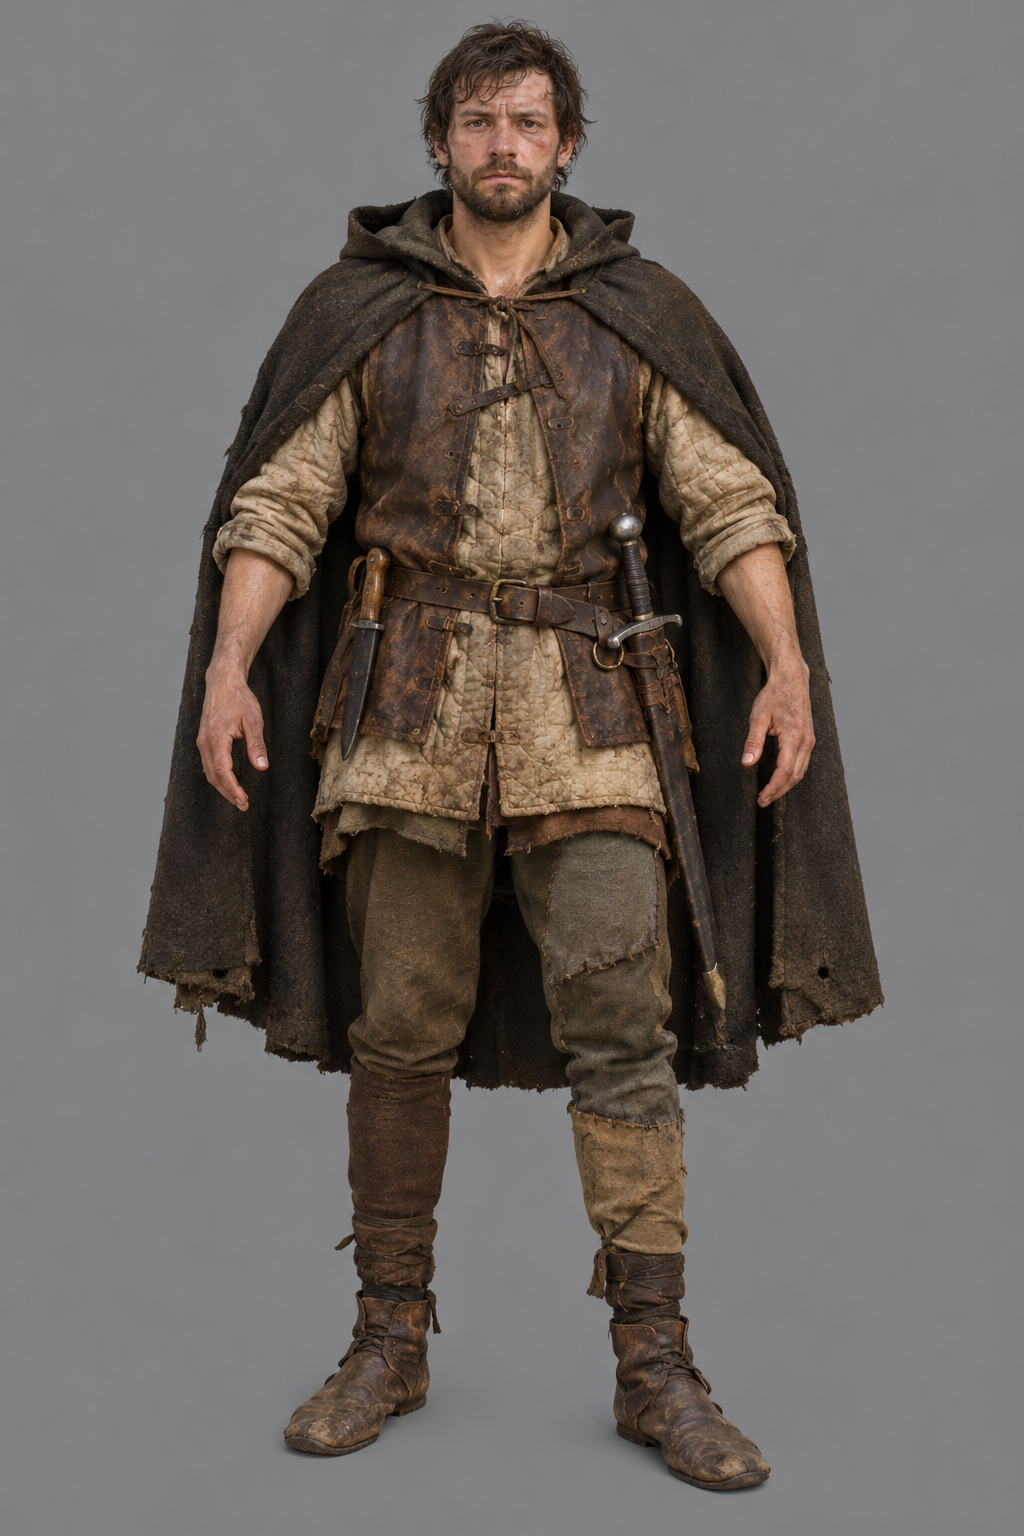
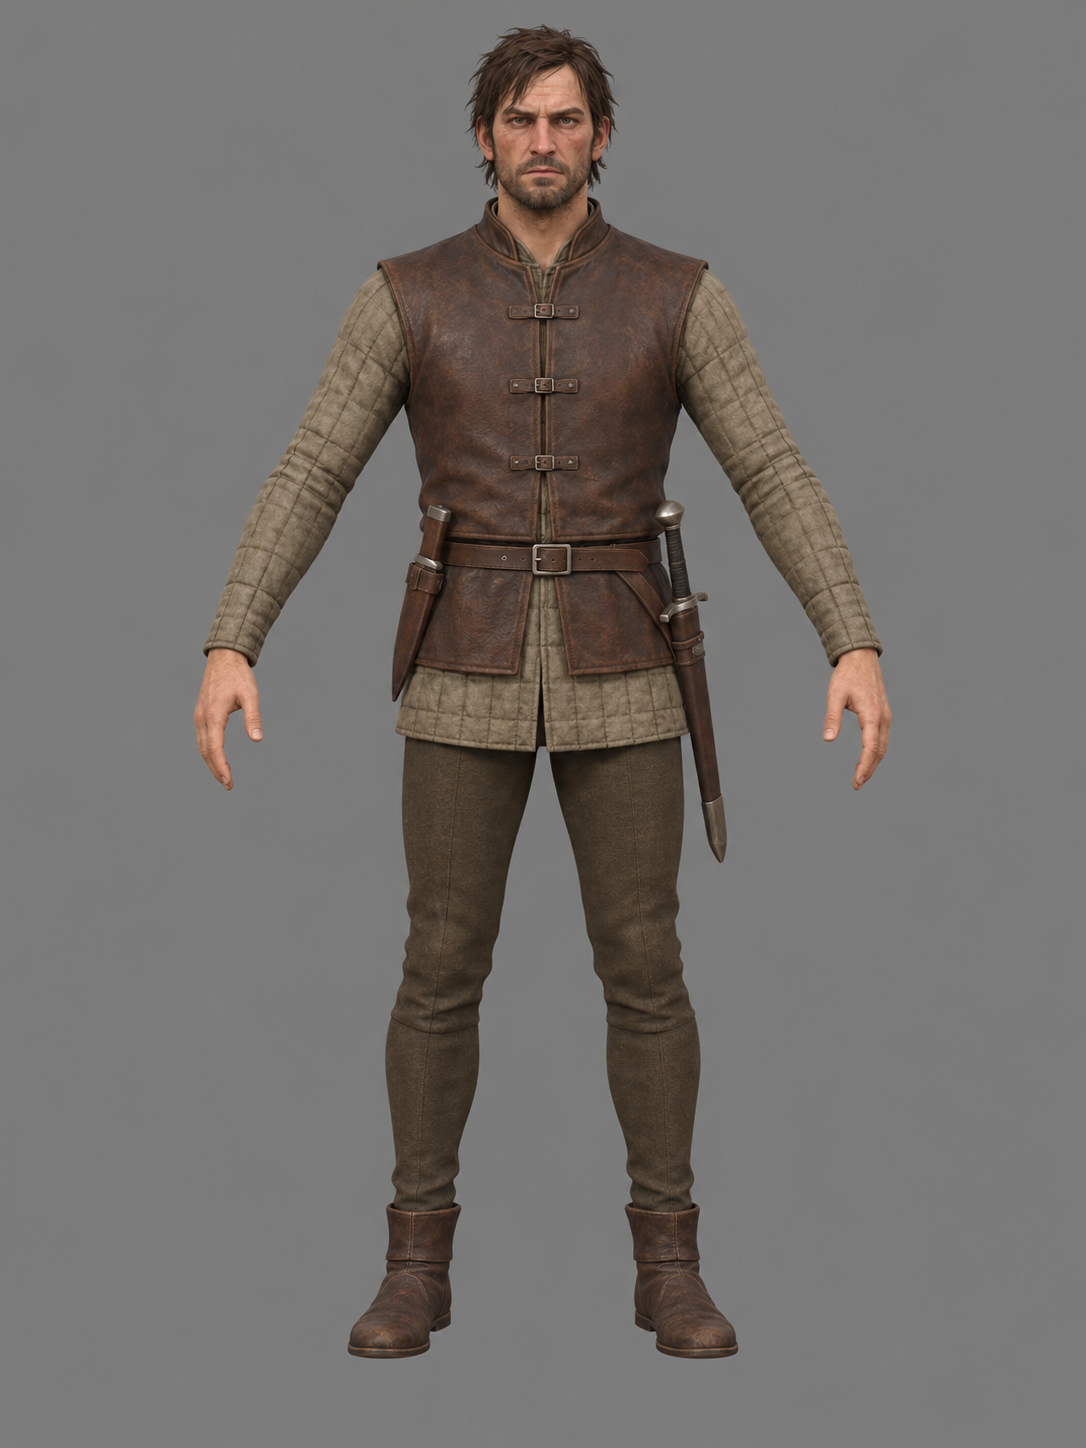
Batch 002: the bandit from the clean concept render (awaiting approval)
The owner's second image (fitted clothing, straight legs, A-pose, grey
background) replaces the photograph in the inbox. Batch 002 plans the
three Meshy steps with the combat set. Weapons in hand are recorded as
separate props attached to the hand joint (DESIGN 10.1 step 7).

Fix: `batch new` without `--pose` dropped the first character spec.

Claude-Session: https://claude.ai/code/session_01W5BePXiaXkqzr4br9g7qBv

Changed region(s): [[0.125, 0.0, 0.875, 0.9945]]

diff --git a/tools/asset.ts b/tools/asset.ts
@@ -180,7 +180,7 @@ async function batch(args: string[]): Promise<void> {
     const poseAt = given.indexOf('--pose');
     const pose = poseAt >= 0 ? given[poseAt + 1] : 'a-pose';
     if (pose !== 'a-pose' && pose !== 't-pose') fail('--pose a-pose|t-pose');
-    const specs = given.filter((_, i) => i !== poseAt && i !== poseAt + 1);
+    const specs = poseAt < 0 ? given : given.filter((_, i) => i !== poseAt && i !== poseAt + 1);
     if (!specs.length) fail('give at least one <id>:<height-m>[:civilian]');
     const items = [];
     for (const spec of specs) {

diff --git a/docs/DESIGN.md b/docs/DESIGN.md
@@ -231,6 +231,14 @@ of billing again. Verified through the proxy: `balance` (4,790 credits on
    and meshopt compression wait until file size matters (meshopt needs a
    decoder on the Babylon side).
 6. **Commit** to `assets/characters/<id>/` with a manifest entry.
+7. **Weapons in hand** (2026-10-16): never part of the character mesh. A
+   weapon is a prop (pipeline 10.3, a few hundred triangles) attached to the
+   `RightHand` (or `LeftHand`) joint's transform node with a per-prop grip
+   offset tuned once in the dev panel and stored with the prop. The attack,
+   block and idle clips move the hand; the prop follows. This keeps one
+   bandit mesh for a club, a sword or a bow, and keeps the auto-rigger away
+   from held objects, which it handles badly. A sheathed weapon drawn in the
+   concept image is part of the body and stays sheathed.
 
 Credit cost per humanoid, confirmed by batch 001 (2026-10-15, `consumed_credits` and the balance delta agree): image-to-3D 15, rigging 5, animation 3 per clip. A combat humanoid costs 50 credits, a civilian 29. The bandit came back with 3,641 triangles against the 4,000 target.
 
@@ -786,6 +794,12 @@ and icons all share it, so world and UI agree.
   the photograph's stance kept by the retargeted clips; the card now asks for
   straight legs, and `batch new --pose t-pose` is available. Tapping a
   character in the dev build steps through its clips.
+- 2026-10-16 – **Second bandit image, weapons as props.** The owner's clean
+  concept render (fitted clothing, straight legs, A-pose) replaces the
+  photograph; batch 002 regenerates the bandit from it. Owner's question
+  "how will you put a weapon in his hand?": weapons are separate props
+  attached to the hand joint (10.1 step 7), not modelled into the
+  character.
 - 2026-10-15 – **Owner's look tuning becomes the default** (sent from the
   dev panel after playing the water build, "looks moody"): posterize filter
   on at 5 levels with dither 0.45 (cell 2), bloom off, vignette 0.6, contrast
